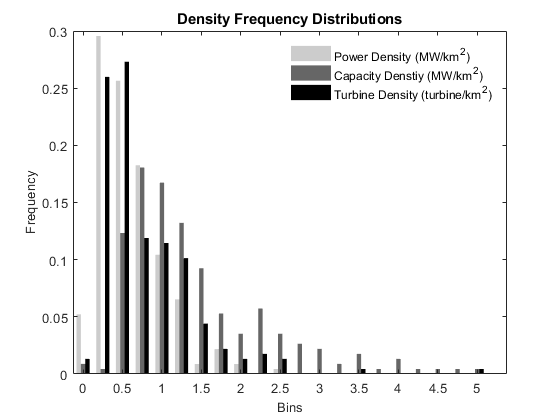
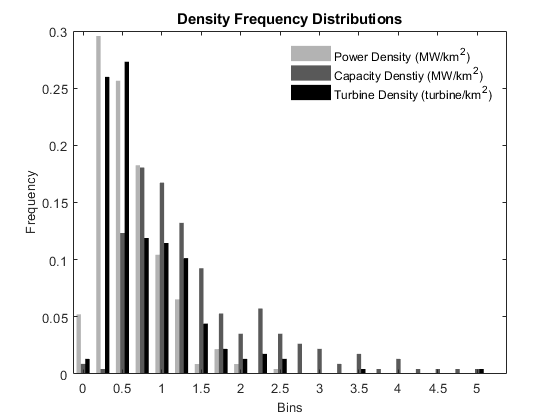
Darker lines for visibility

Changed region(s): [[0.1214, 0.0929, 0.2125, 0.8976], [0.2429, 0.4024, 0.425, 0.8976], [0.5161, 0.0929, 0.6071, 0.1548]]

diff --git a/June 9, 2020/power_density.m b/June 9, 2020/power_density.m
@@ -58,9 +58,9 @@ legend('Power Density (MW/km^2)','Capacity Denstiy (MW/km^2)',...
 legend boxoff
 
 % Loop through and set colormap to greyscale
-clr = [0.8 0.8 0.8];
+clr = [0.7 0.7 0.7];
 for i = 1:3
     fig(i).FaceColor = clr;
-    clr = clr - 0.4;
+    clr = clr - 0.35;
 end
 
